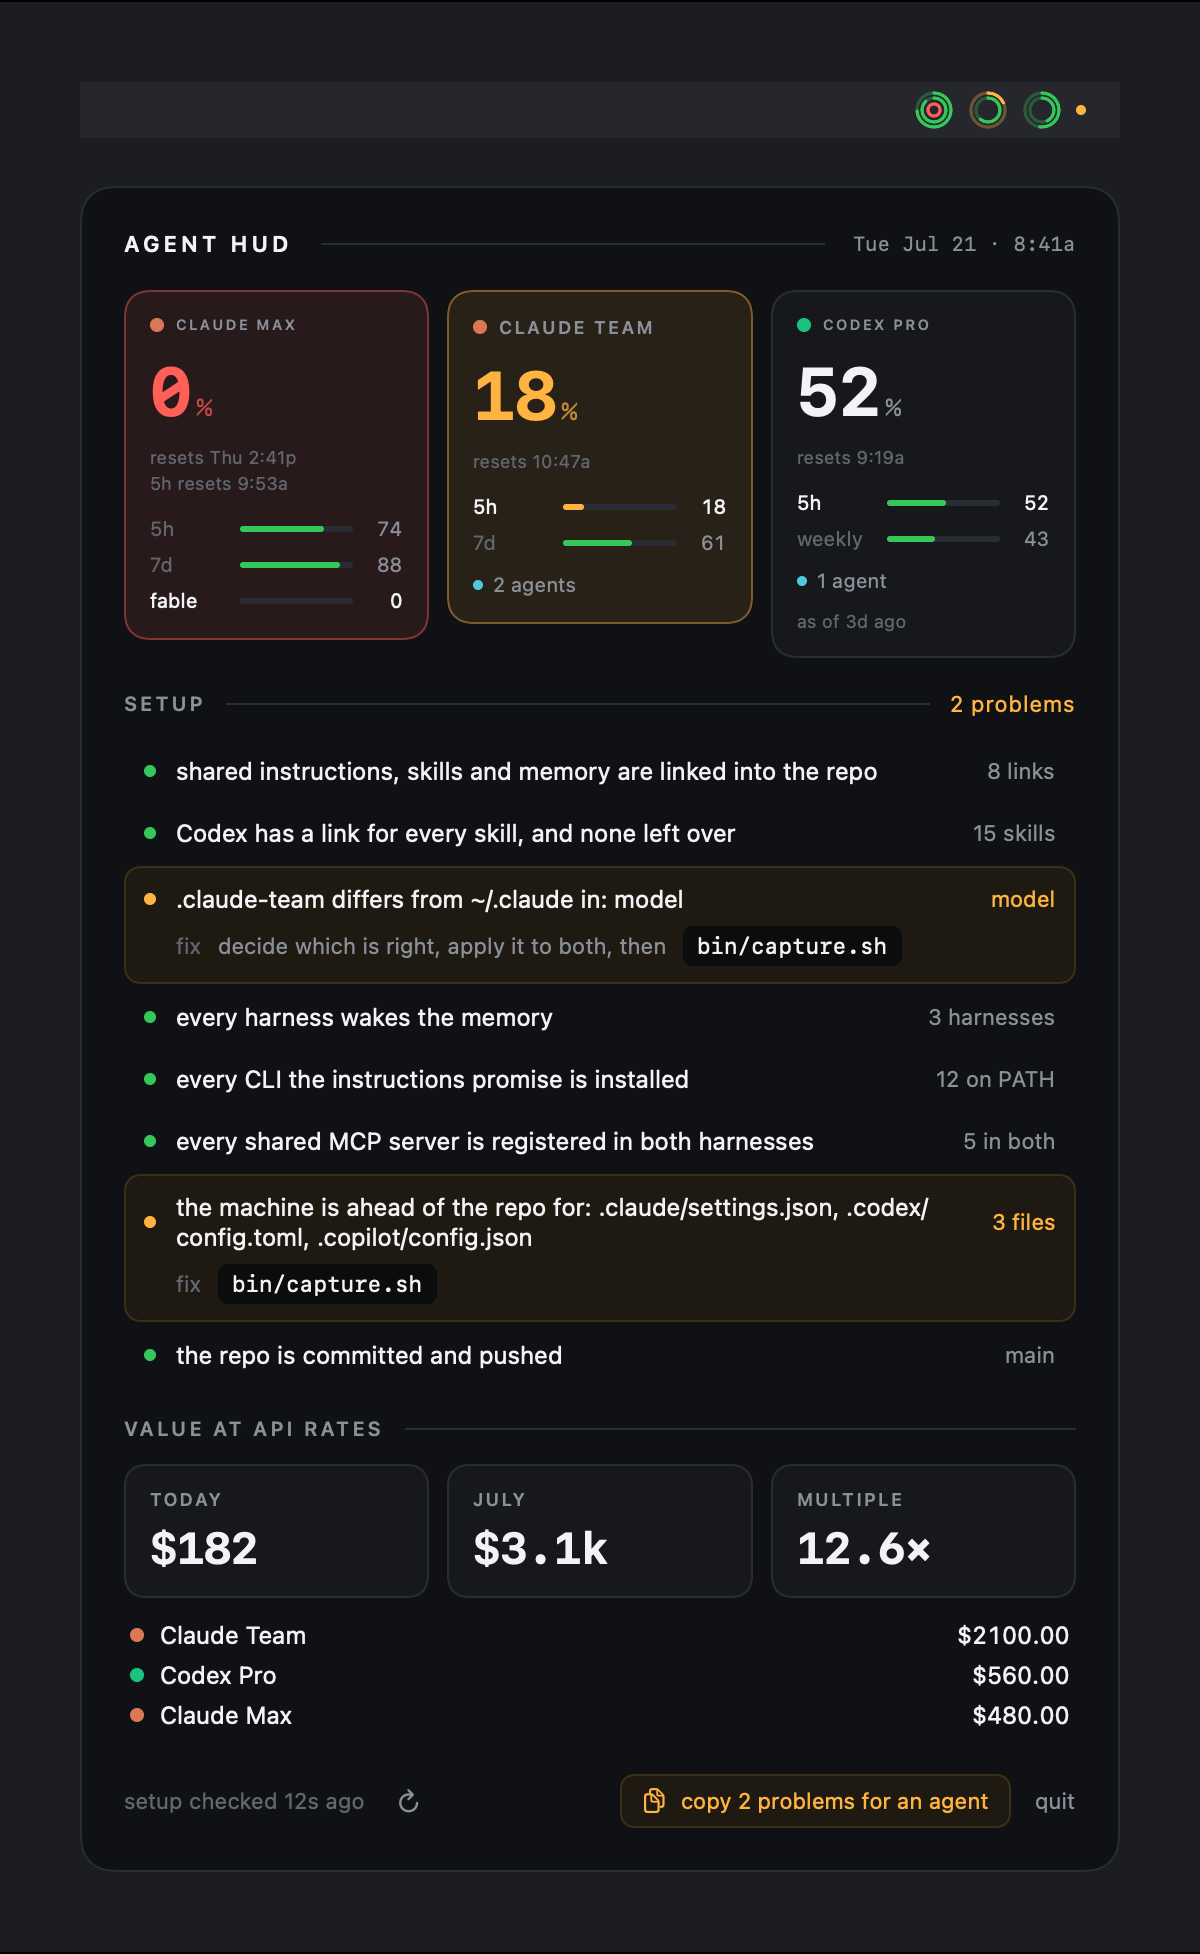
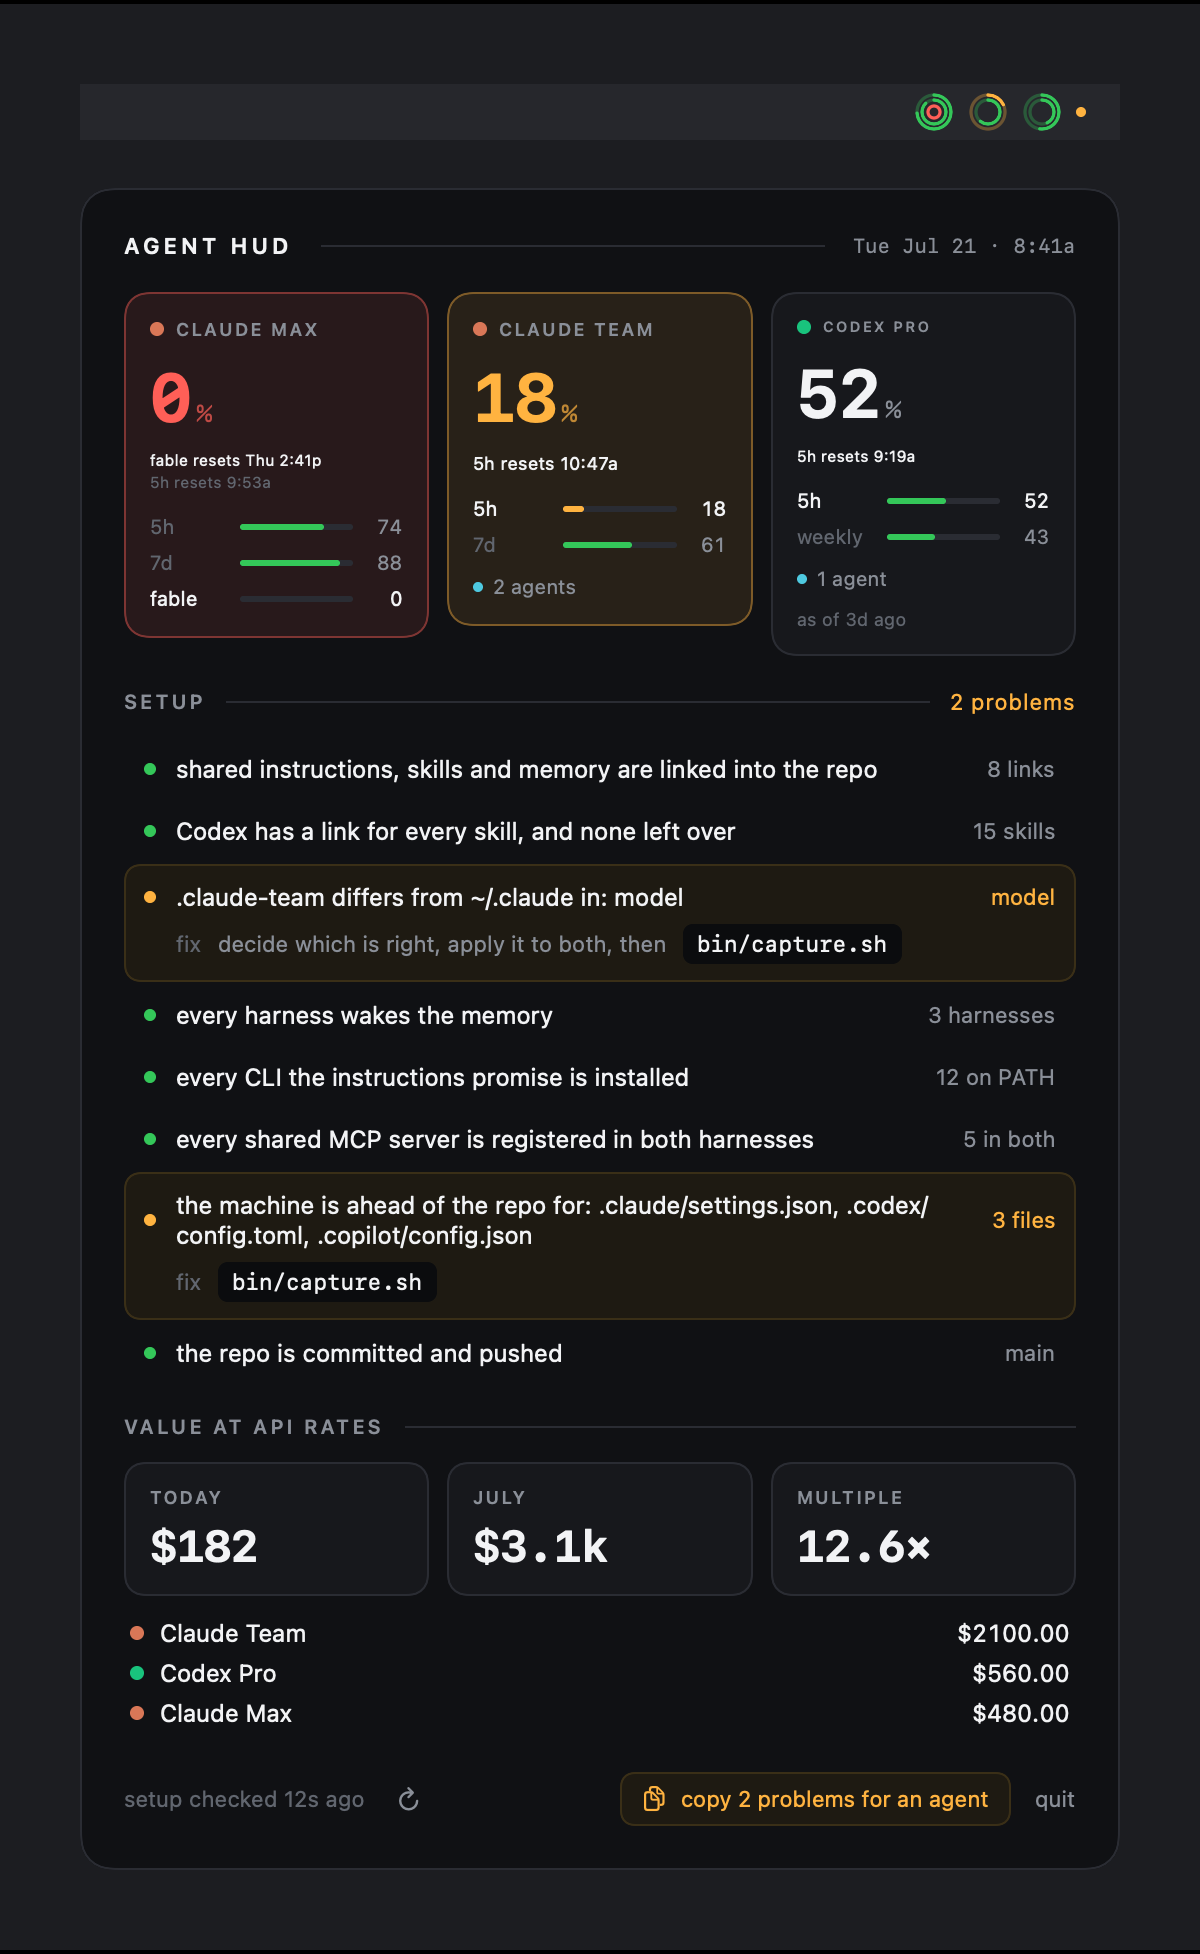
fix: name the window a pod's reset line belongs to
The line said "resets Mon 1:40a" whichever window it was for, and which window
that is changes with whatever happens to be tightest. On a plan headlining its
5-hour limit and one headlining Fable it read identically, and the only way to
tell them apart was to match the big number against the meter rows below.

Adding the 5-hour line made it worse rather than better: a plan whose headline
was already the session window got one unlabelled line, and a plan whose headline
was a weekly got an unlabelled one plus a labelled one. Same card, two meanings
for the same shape.

Both lines are named now — "fable resets Thu 2:41p", "5h resets 9:53a" — and the
headline's takes the text colour while the second stays faint, so which one the
big number belongs to is visible rather than inferred.

diff --git a/hud/Sources/HUDCore/PopoverCard.swift b/hud/Sources/HUDCore/PopoverCard.swift
@@ -185,13 +185,15 @@ struct PodView: View {
             VStack(alignment: .leading, spacing: 2) {
                 Text(resetCaption)
                     .font(Theme.label(9))
-                    .foregroundStyle(Theme.faint)
+                    .foregroundStyle(Theme.text)
                     .lineLimit(1)
+                    .minimumScaleFactor(0.85)
                 if let sessionCaption {
                     Text(sessionCaption)
                         .font(Theme.label(9))
                         .foregroundStyle(Theme.faint)
                         .lineLimit(1)
+                        .minimumScaleFactor(0.85)
                 }
             }
 
@@ -249,11 +251,19 @@ struct PodView: View {
     }
 
     /// When the headline window rolls over, as a day and clock time rather than
-    /// a countdown: the countdown belongs in the menu bar, where you glance at
-    /// it; here you are deciding whether to wait, which is a question about when.
+    /// a countdown: you are deciding whether to wait, which is a question about
+    /// when, not about how long.
+    ///
+    /// Named, because *which* window this is changes with whichever limit is
+    /// tightest. Unlabelled it read as "resets Mon 1:40a" on a plan whose
+    /// headline was the 5-hour window and on one whose headline was Fable, and
+    /// the only way to tell them apart was to match the big number against the
+    /// meter rows below.
     private var resetCaption: String {
-        guard let reset = leadWindow?.resetsAt else { return "no reset reported" }
-        return "resets \(Fmt.dayClock(reset, now: now))"
+        guard let window = leadWindow else { return "no reset reported" }
+        let name = Fmt.windowName(kind: window.kind)
+        guard let reset = window.resetsAt else { return "\(name) reset unknown" }
+        return "\(name) resets \(Fmt.dayClock(reset, now: now))"
     }
 
     /// The 5-hour session clock, when the headline is some other window. Weekly
